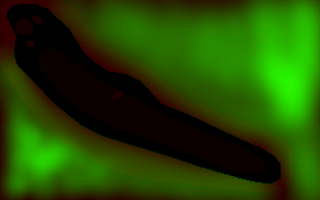
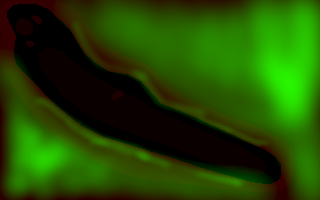
fix slope indicator direction

diff --git a/samples/golf/src/golf/TerrainBuilder.cpp b/samples/golf/src/golf/TerrainBuilder.cpp
@@ -600,11 +600,11 @@ void TerrainBuilder::threadFunc()
 
                             m_slopeIndices.push_back(currIndex++);
 
-                            static constexpr float MaxStrength = 0.75f; //0.75
+                            static constexpr float MaxStrength = 0.95f; //0.75
                             auto dir = glm::vec2(normal.x, normal.z);
                             auto strength = glm::length(dir);
                             dir /= strength;
-                            strength = std::min(MaxStrength, strength * 12.f); //12
+                            strength = std::min(MaxStrength, strength * 40.f); //12
                             dir *= strength;
                             
                             auto& vert2 = m_slopeBuffer.emplace_back();

diff --git a/samples/golf/src/golf/BallSystem.cpp b/samples/golf/src/golf/BallSystem.cpp
@@ -201,9 +201,8 @@ void BallSystem::process(float dt)
 
                     //move by slope from normal map
                     auto velLength = glm::length(ball.velocity);
-                    glm::vec3 slope = glm::vec3(normal.x, 0.f, normal.z) * 0.16f * smoothstep(0.5f, 4.5f, velLength);
+                    glm::vec3 slope = glm::vec3(normal.x, 0.f, normal.z) * 3.f * smoothstep(0.5f, 4.5f, velLength);
                     ball.velocity += slope;
-                    LogI << "Normal: " << normal << ", penetration: " << penetration << ", terrain: " << (int)terrain << std::endl;
 
                     //add wind - adding less wind the more the ball travels in the
                     //wind direction means we don't get blown forever
